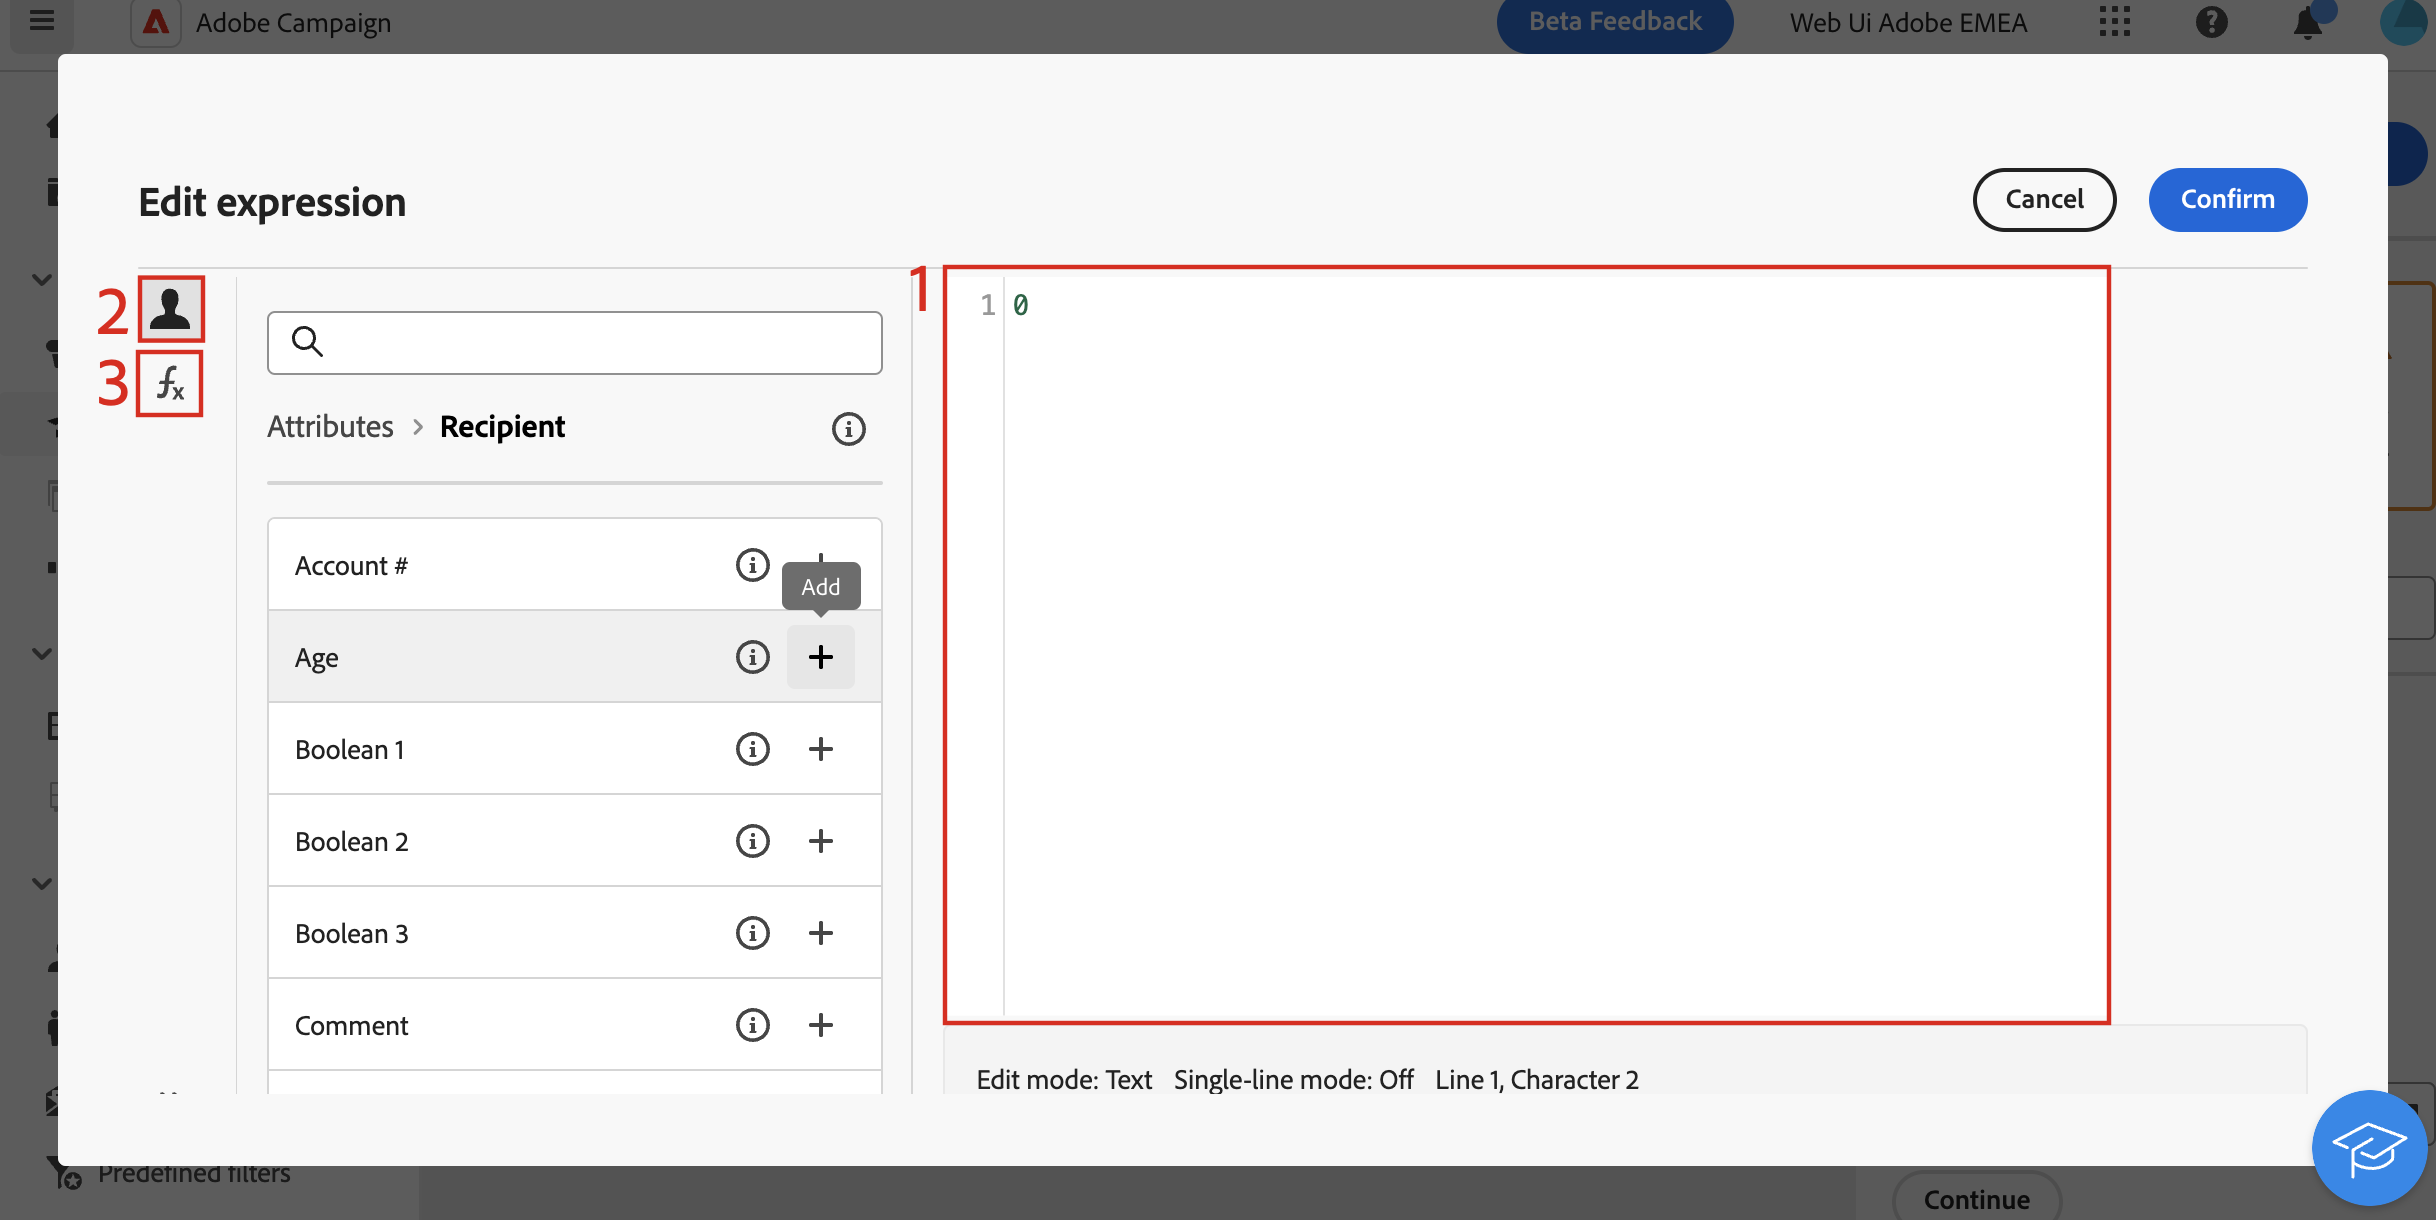
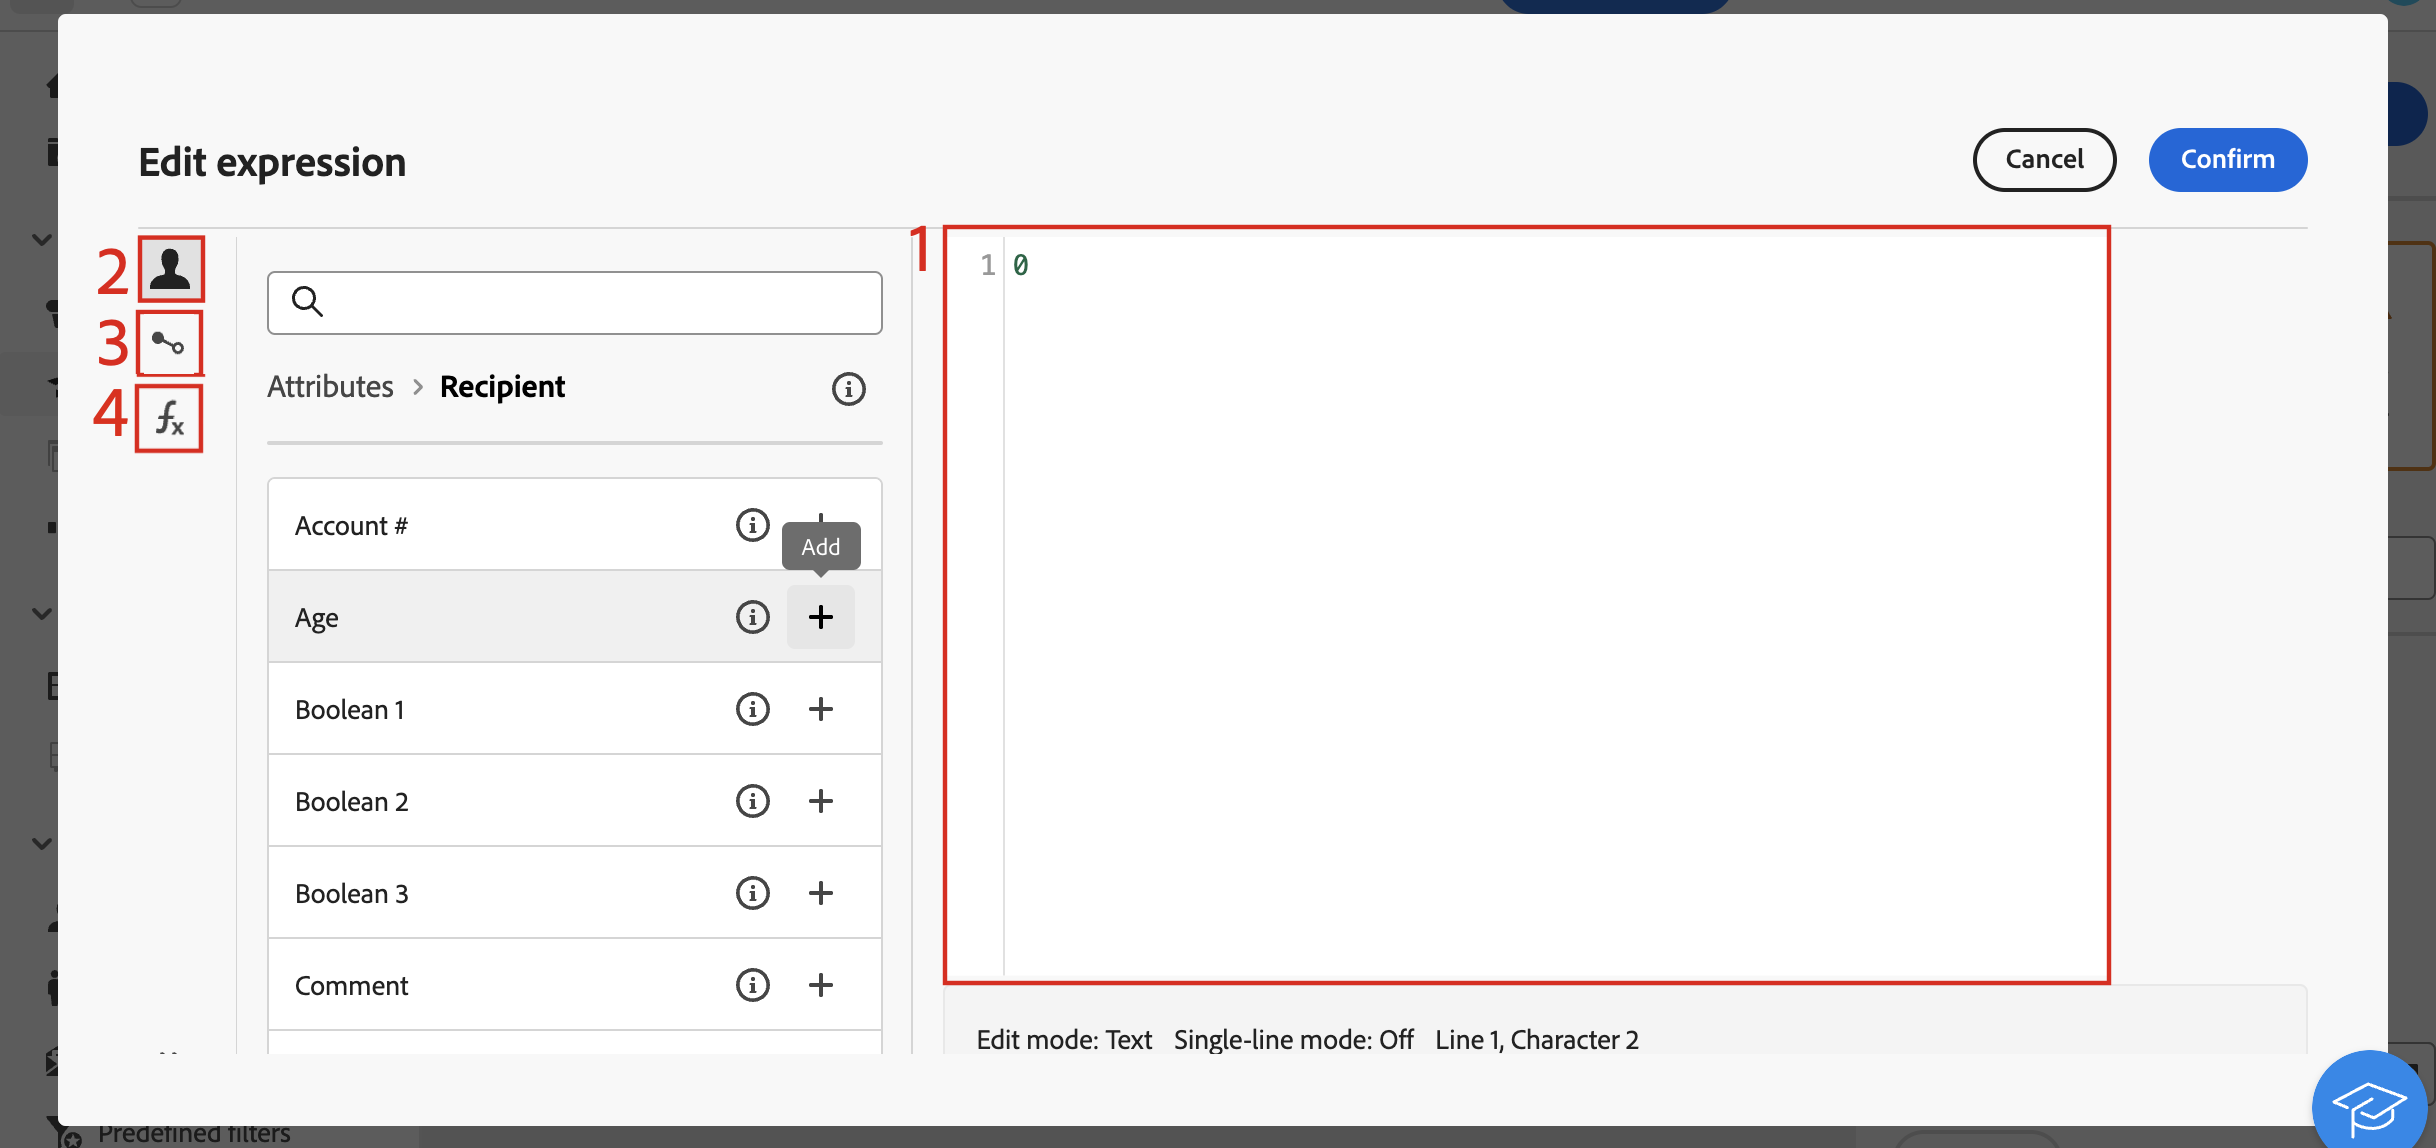
Docac 14113 global variables orchestrated (#2413)
* DOCAC-14113 Add global variables guide for orchestrated campaigns.

Document global variables from transcript inputs, clarify their distinction from signal-trigger parameters, and add the new page to Advanced operations in the TOC.

Made-with: Cursor

* updates

* updates

* update

* update

* comit

* updates

* update

* update

* fix

* update rn

diff --git a/help/using/orchestrated/trigger-orchestrated-campaign.md b/help/using/orchestrated/trigger-orchestrated-campaign.md
@@ -2,7 +2,7 @@
 solution: Journey Optimizer
 product: journey optimizer
 title: Trigger an Orchestrated campaign using a signal
-description: Learn how to trigger an Orchestrated campaign using a signal in [!DNL Adobe Journey Optimizer].
+description: Learn how to trigger an Orchestrated campaign using a signal and pass parameters that become available as in the campaign.
 feature: Campaigns
 topic: Content Management
 role: Developer
@@ -12,16 +12,18 @@ exl-id: d1fd072d-b143-4752-822f-23f98684ba80
 ---
 # Trigger Orchestrated campaigns using a signal {#trigger-signal}
 
-You can trigger an Orchestrated campaign by sending it a signal instead of running it on a schedule. The signal is sent via an API call from an external system or application. When using a signal, you can pass parameters. They are then made available in the orchestrated campaign as event variables in the execution context — for use in targeting, conditions, or expressions.
+You can trigger an Orchestrated campaign by sending it a signal instead of running it on a schedule. The signal is sent via an API call from an external system or application. When using a signal, you can pass parameters that become available as variables in the campaign — for use in targeting, conditions, or expressions.
+
+This page explains how to configure and trigger a signal. Once the variables are available, for details on how to use them in rules and **[!UICONTROL Test]** conditions, see [Use variables in Orchestrated campaigns](variables-orchestrated-campaigns.md).
 
 For the full REST specification of the trigger endpoint (paths, headers, body, responses, and errors), see [Trigger Orchestrated campaigns API](https://developer.adobe.com/journey-optimizer-apis/references/oc-trigger){target="_blank"} in the Adobe Journey Optimizer API documentation.
 
 End-to-end process to trigger an Orchestrated campaign using a signal:
 
-1. [Schedule the campaign to be triggered by a signal](#set-an-orchestrated-campaign-to-wait-for-a-signal-configure-signal)
-1. [Add parameters for the signal payload](#add-parameters-for-the-signal-payload-optional-parameters) (optional)
-1. [Build and test the campaign](#build-and-test-the-campaign-build-and-test)
-1. [Publish and trigger the campaign](#publish-and-trigger-the-campaign-publish)
+1. [Schedule the campaign to be triggered by a signal](#configure-signal)
+1. [Add parameters for the signal payload](#parameters) (optional)
+1. [Build and test the campaign](#build-and-test)
+1. [Publish and trigger the campaign](#publish)
 
 >[!NOTE]
 >
@@ -41,7 +43,7 @@ To set an orchestrated campaign to start on a signal instead of a schedule, foll
 
 ## Add parameters for the signal payload (optional) {#parameters}
 
-You can pass parameters in the trigger signal and use them in your campaign in the execution context—for example, in targeting, conditions, or expressions. Define each parameter in the schedule settings first, then pass its value when you call the trigger API.
+You can pass parameters in the trigger signal and use them in your campaign in the execution context — for example, in targeting, conditions, or expressions. Define each parameter in the schedule settings first, then pass its value when you call the trigger API.
 
 1. Open the campaign scheduler and select **[!UICONTROL Add parameter]**.
 
@@ -51,7 +53,7 @@ You can pass parameters in the trigger signal and use them in your campaign in t
 
 >[!NOTE]
 >
->If you pass a parameter in the API call that has not been defined in the scheduler, the API call still succeeds and the parameter is propagated, and you can use it in expressions. However, the orchestrated campaign interface will not help you use it—for example, the Test activity will not list or show parameters that were not defined in the scheduler.
+>If you pass a parameter in the API call that has not been defined in the scheduler, the API call still succeeds and the parameter is propagated, and you can use it in expressions. However, the orchestrated campaign interface will not help you use it — for example, the Test activity will not list or show parameters that were not defined in the scheduler.
 
 ## Build and test the campaign {#build-and-test}
 

diff --git a/help/using/orchestrated/variables-orchestrated-campaigns.md b/help/using/orchestrated/variables-orchestrated-campaigns.md
@@ -1,0 +1,44 @@
+---
+solution: Journey Optimizer
+product: journey optimizer
+title: Use variables in Orchestrated campaigns
+description: Learn how to use event variables in Orchestrated campaigns to build conditions and targeting rules.
+feature: Campaigns
+topic: Content Management
+role: User
+level: Intermediate
+version: Campaign Orchestration
+exl-id: 3f2a1c0d-8e9b-4a7c-b5d1-0f2e3a4b5c6d
+---
+
+# Use variables in Orchestrated campaigns {#variables-oc}
+
+## How to set variables {#set}
+
+In an Orchestrated campaign, you can work with variables, i.e. values that drive targeting, **[!UICONTROL Test]** conditions, and other canvas logic. Those values can come from two places:
+
+* **A signal** — If the campaign schedule is **[!UICONTROL Triggered by a signal]**, you can pass parameters when you fire the campaign. Those parameters become available as variables in the triggered Orchestrated campaign for that run. [Learn how to trigger an Orchestrated campaign using a signal](trigger-orchestrated-campaign.md)
+
+* **Global variables** — You can define name–value pairs directly on the campaign using the **[!UICONTROL Edit variables]** menu, with no API or signal required. [Learn how to define global variables in Orchestrated campaigns](global-variables.md)
+
+>[!NOTE]
+>
+>For now, variables support **text** values only.
+>
+>Variables drive **canvas logic** (rules, conditions) and cannot be used for message personalization.
+
+## Use variables in the canvas {#use}
+
+Variables are available in the following places on the canvas:
+
+* **Rule builder** — Open the expression editor for a rule and use the **event variables** picker to select a variable and insert its reference into your expression. [Learn how to edit expressions](edit-expressions.md)
+
+  In the example below, a variable named `brand` was passed in, and the rule uses it as a filter condition.
+
+  ![Rule builder condition using a brand variable from event variables](assets/variables-rule.png){zoomable="yes"}
+
+* **[!UICONTROL Test] activity** — When you define a condition, the **[!UICONTROL Condition type]** drop-down lists all variables in scope alongside **[!UICONTROL Population count]**. Select a variable to use it as the basis for a test branch. [Learn how to configure the **[!UICONTROL Test]** activity](activities/test.md)
+
+  In the example below, the `channel` variable is used to route the flow to different transitions depending on its value.
+
+  ![Test activity condition type drop-down listing the channel variable](assets/variables-test.png){zoomable="yes"}

diff --git a/help/using/orchestrated/global-variables.md b/help/using/orchestrated/global-variables.md
@@ -1,0 +1,32 @@
+---
+solution: Journey Optimizer
+product: journey optimizer
+title: Define global variables in Orchestrated campaigns
+description: Learn how to add and manage global variables on an Orchestrated campaign.
+feature: Campaigns
+topic: Content Management
+role: User
+level: Intermediate
+version: Campaign Orchestration
+exl-id: 7a4e8f2c-91d3-4b65-8e10-2c9f4a6b8d1e
+---
+
+# Define global variables in Orchestrated campaigns {#define-global-variables}
+
+**Global variables** are name–value pairs you set on a single Orchestrated campaign and reuse on each run, so you can steer **[!UICONTROL Test]** conditions, the rule builder, and other canvas logic with shared values (for example, a default channel or test email) without pasting the same value into every activity.
+
+This page explains how to define global variables. Once they are available, for details on how to use them in rules and **[!UICONTROL Test]** conditions, see [Use variables in Orchestrated campaigns](variables-orchestrated-campaigns.md).
+
+To add or edit a global variable to an Orchestrated campaign, follow these steps:
+
+1. Open the Orchestrated campaign.
+
+1. Click the **...** icon next to **[!UICONTROL Save]**, then select **[!UICONTROL Edit variables]**.
+
+   ![Edit variables option in the campaign menu](assets/variables-list.png){zoomable="yes"}
+
+1. Click **[!UICONTROL Add variable]** and set the variable’s name and value. To edit an existing variable, click the **...** button and select **[!UICONTROL Edit]**.
+
+   ![Variables panel to add or edit variables](assets/variables-edit.png){zoomable="yes"}
+
+To learn how to use global variables in rules and **[!UICONTROL Test]** conditions once they are defined, see [Use variables in Orchestrated campaigns](variables-orchestrated-campaigns.md#use).

diff --git a/help/using/rn/release-notes.md b/help/using/rn/release-notes.md
@@ -336,6 +336,7 @@ This keeps recurring campaigns focused on net-new audiences (new sign-ups, newly
 
 #### Orchestrated campaigns
 
+* **Global variables in Orchestrated Campaigns** - Orchestrated Campaigns now support global variables that can be defined once and reused across all activities within a workflow, simplifying configuration and ensuring consistency in dynamic values, expressions, and content personalization. [Read more](../orchestrated/global-variables.md)
 * **Data Modeler enhancements** - Orchestrated relational schemas now support composite keys spanning multiple fields. Loading a schema from a DDL file also brings in enumerations, and loading from either a DDL or Excel file automatically creates composite relationships between tables. In the entity relationship view, composite links now display the full set of field pairings between tables after a file is uploaded. [Read more](../orchestrated/gs-schemas.md)
 
 ## Coming soon {#coming-soon}
@@ -399,8 +400,3 @@ The following capabilities and enhancements are scheduled for release in the nex
 #### Configuration
 
 * **Specific permissions for URL parameter encryption keys** - To access and manage keys for URL parameter encryption, new permissions have been created. You must now have the **View Key Registry** and **Manage Key Registry** permissions granted. <!--[Read more](../personalization/url-parameter-encryption.md#create-keys)-->
-
-#### Orchestrated campaigns
-
-* **Global variables in Orchestrated Campaigns** - Orchestrated Campaigns now support global variables that can be defined once and reused across all activities within a workflow, simplifying configuration and ensuring consistency in dynamic values, expressions, and content personalization.
-

diff --git a/help/using/orchestrated/edit-expressions.md b/help/using/orchestrated/edit-expressions.md
@@ -27,9 +27,11 @@ The expression editor provides:
 
 * An **input field (1)** where the expression is defined.
 * A list of available **fields (2)** that can be used in the expression and correspond to the targeting dimension of the query.
-* **Helper functions (3)**, sorted by category.
+* A list of available **variables (3)** that can be used in the expression. This menu is available for the **Value** field. [Learn how to use variables in Orchestrated campaigns](variables-orchestrated-campaigns.md)
 
-Edit the expression by entering an expression directly in the input field. To add a field or a helper function, place your cursor in the expression where you want to add it and click the + button.
+* **Helper functions (4)**, sorted by category.
+
+Edit the expression by entering an expression directly in the input field. To add a field, a variable or a helper function, place your cursor in the expression where you want to add it and click the + button.
 
 ![Expression editor interface](assets/rule-builder-expression-editor.png){zoomable="yes"}
 

diff --git a/help/TOC.md b/help/TOC.md
@@ -212,6 +212,8 @@ solution: Journey Optimizer
       + [Engage customers by browsing activity](using/orchestrated/engage-customers-uc.md)
       + [Notify users about product availability](using/orchestrated/product-availability-uc.md)
     + Advanced operations {#orchestrated-advanced}
+      + [Use variables in Orchestrated campaigns](using/orchestrated/variables-orchestrated-campaigns.md)
+      + [Define global variables in Orchestrated campaigns](using/orchestrated/global-variables.md)
       + [Trigger Orchestrated campaigns using a signal](using/orchestrated/trigger-orchestrated-campaign.md)
 + Conflict & prioritization {#conflict-prioritization}
   + [Conflict management & prioritization](using/conflict-prioritization/gs-conflict-prioritization.md)

diff --git a/help/using/orchestrated/activities/test.md b/help/using/orchestrated/activities/test.md
@@ -35,7 +35,7 @@ To set up the **[!UICONTROL Test]** activity:
 
    * **Label**: A name for the transition so you can identify it on the canvas.
 
-   * **Condition type**: The data to evaluate, by default, population count. 
+   * **Condition type**: The data to evaluate, by default, population count.  Variables (coming from global variables or a trigger signal) are also listed here and can be selected to base a condition on a variable value. [Learn how to use variables in Orchestrated campaigns](../variables-orchestrated-campaigns.md)
 
    * **Operator**: The comparison to apply, e.g. equal to, greater than, less than. The list of operators depends on the condition type's data type.
 
